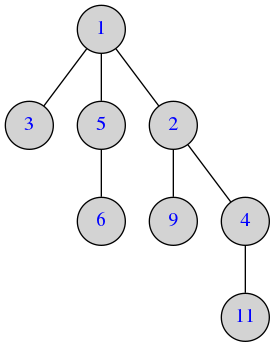
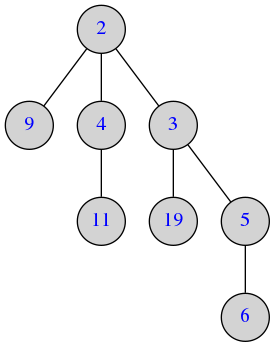
fixed extract min

diff --git a/newBH.py b/newBH.py
@@ -8,68 +8,85 @@ DOT = """digraph G {
 
 class Node:
 
-    def __init__(self):
-        self.n = None
+    def __init__(self, k = None):
+        self.n = k
         self.degree = 0
         self.parent = None
         self.child = None
-        self.sibiling = None
+        self.sibling = None
+
+    def findMinNode(self):
+        x = y = self
+
+        min = x.n
+        while (x != None):
+            if (x.n < min):
+                y = x
+                min = x.n
+            x = x.sibling
+        return y
+
+    def reverse(self,sib):
+        ret = Node()
+        if (self.sibling != None):
+            ret = self.sibling.reverse(self)
+        else:
+            ret = self
+        sibling = sib
+        return ret
 
 class BinomialHeap:
 
-    # def __init__(self):
-    #     self.H = self.initializeHeap()
-    #     self.Hr = self.initializeHeap()
-    #     self.count = 1
+    def __init__(self):
+        self.H = None
+        self.Hr = None
 
 
-    def createNode(self,k):
-        p = Node()
-        p.n = k
-        return p
 
-    def initializeHeap(self):
-        return None
+
+    # def initializeHeap(self):
+    #     return None
 
     def binomialLink(self,y,z):
         y.parent = z
-        y.sibiling = z.child
+        y.sibling = z.child
         z.child = y
         z.degree +=1
 
-    def insert(self,H,x):
-        n = self.createNode(x)
-        H = self.union(H ,n)
-        return H
+    def insert(self,x):
+        n = Node(x)
+        self.union(self.H,n)
+        return self
 
     def union(self,H1,H2):
         H = self.merge(H1,H2)
         if H == None:
-            return H
+            self.H = H
+            return
         prev = None
         x = H
-        next = x.sibiling
+        next = x.sibling
         while(next != None):
-            if ((x.degree != next.degree) or ((next.sibiling != None) and next.sibiling.degree == x.degree)):
+            if ((x.degree != next.degree) or ((next.sibling != None) and next.sibling.degree == x.degree)):
                 prev = x
                 x = next
             else:
                 if (x.n <= next.n):
-                    x.sibiling = next.sibiling
+                    x.sibling = next.sibling
                     self.binomialLink(next,x)
                 else:
                     if (prev == None):
                         H = next
                     else:
-                        prev.sibiling = next
+                        prev.sibling = next
                     self.binomialLink(x,next)
                     x = next
-            next = x.sibiling
+            next = x.sibling
 
-        return H
+        self.H = H
 
     def merge(self,H1,H2):
-        H = self.initializeHeap()
+        H = None
         y = H1
         z = H2
         if (y != None):
@@ -85,58 +102,100 @@ class BinomialHeap:
 
         while (y != None and z != None):
             if (y.degree < z.degree):
-                y = y.sibiling
+                y = y.sibling
             elif (y.degree == z.degree):
-                tmp = y.sibiling
-                y.sibiling = z
+                tmp = y.sibling
+                y.sibling = z
                 y = tmp
             else:
-                tmp = z.sibiling
-                z.sibiling = y
+                tmp = z.sibling
+                z.sibling = y
                 z = tmp
 
         return H
 
-    def display(self,H):
-        if (H == None):
-            print("Heap vuoto")
-        p = H
-        while (p != None):
-            print("{0} ".format(p.n))
-            p = p.sibiling
-        print("\n")
-
-    def search(self, H, k):
-        x = H
+    def search(self, k):
+        x = self.H
         p = None
         if (x.n == k):
             p = x
             return p
         if (x.child != None and p == None):
             p = self.search(x.child,k)
-        if (x.sibiling != None and p == None):
-            p = self.search(x.sibiling,k)
+        if (x.sibling != None and p == None):
+            p = self.search(x.sibling,k)
 
         return p
 
-    def info(self, H):
+    def revert_list(self,y):
+        x = y
+        prev = tmp = None
+        while (x != None):
+            x.parent = None
+            next = x.sibling
+            x.sibling = prev
+            prev = x
+            x = next
+        y = prev
+
+        self.Hr = y
+        # self.info(self.Hr)
+
+
+    def extractMin(self, H1 = None):
+        if H1 == None:
+            H1 = self.H
+
+        t = None
+        self.Hr = None
+        x = H1
+        if (x == None):
+            print("Heap vuoto")
+            return x
+        min = x.n
+        p = x
+        while (p.sibling != None):
+            if (p.sibling.n < min):
+                min = p.sibling.n
+                t = p
+                x = p.sibling
+            p = p.sibling
+        if (t == None and x.sibling == None):
+            H1 = None
+        elif (t == None):
+            H1 = x.sibling
+        elif (t.sibling == None):
+            t = None
+        else:
+            t.sibling = x.sibling
+        if (x.child != None):
+            self.revert_list(x.child)
+            # x.child.sibling = None
+        self.union(H1,self.Hr)
+        return x
+
+
+
+    def info(self, H = None):
+        if (H == None):
+            H = self.H
         x = H
         c = s = p = "None"
         if x:
             if x.child:
                 c = x.child.n
-            if x.sibiling:
-                s = x.sibiling.n
+            if x.sibling:
+                s = x.sibling.n
             if x.parent:
                 p = x.parent.n
             print("n:{0} c:{1} s:{2} p:{3}".format(x.n,c,s,p))
         if (x.child != None):
             p = self.info(x.child)
-        if (x.sibiling != None):
-            p = self.info(x.sibiling)
+        if (x.sibling != None):
+            p = self.info(x.sibling)
 
 
-    def generateDot(self, H):
+    def generateDot(self,H):
         text = ""
         if (H == None):
             return text
@@ -144,30 +203,31 @@ class BinomialHeap:
 
         if (p.parent != None):
             text+="{0}->{1}\n".format(p.parent.n,p.n)
-        if (p.sibiling != None):
-            text=self.generateDot(p.sibiling)+text
+        if (p.sibling != None):
+            text=self.generateDot(p.sibling)+text
         if (p.child != None):
             text+=self.generateDot(p.child)
         if (p.parent == None):
             text="{0} \n".format(p.n)+text
         return text
 
-    def visualizeTree(self,H):
-        dot_text = DOT % self.generateDot(H)
+    def visualizeTree(self, name = "graph"):
+        dot_text = DOT % self.generateDot(self.H)
         dot = Source(dot_text)
-        dot.render("graph","data/cache",format="png")
+        dot.render(name,"data/cache",format="png")
 
 
 
 BH = BinomialHeap()
-H = BH.initializeHeap()
-H = BH.insert(H,1)
-H = BH.insert(H,3)
-H = BH.insert(H,5)
-H = BH.insert(H,6)
-H = BH.insert(H,9)
-H = BH.insert(H,2)
-H = BH.insert(H,11)
-H = BH.insert(H,4)
-print(BH.generateDot(H))
-BH.visualizeTree(H)
+
+BH.insert(1)
+BH.insert(3)
+BH.insert(5)
+BH.insert(6)
+BH.insert(9)
+BH.insert(2)
+BH.insert(11)
+BH.insert(4)
+BH.insert(19)
+BH.extractMin()
+BH.visualizeTree()
